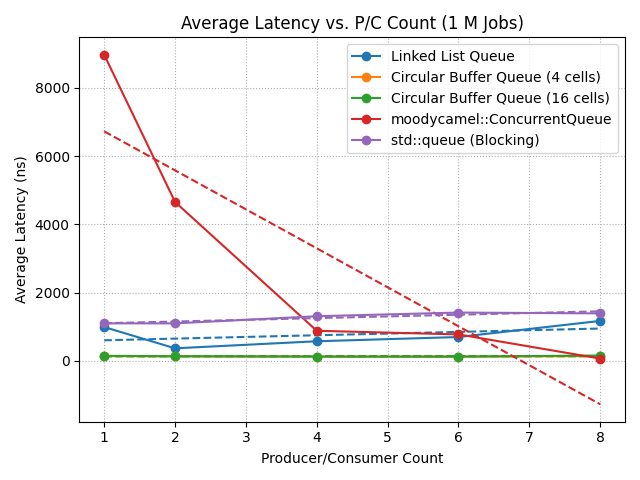
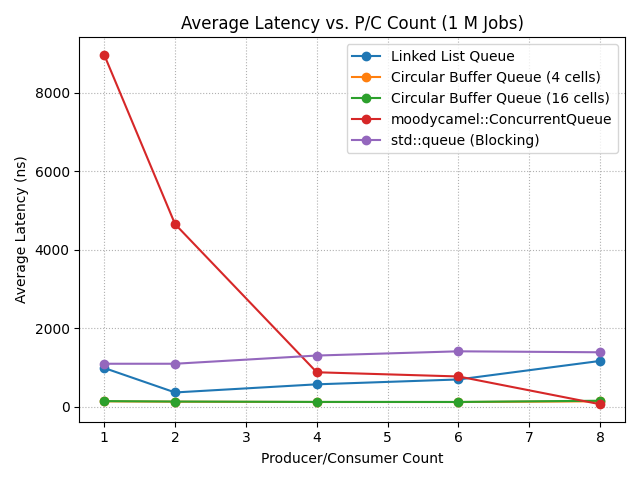
Removed trendlines

diff --git a/reporting/generate_throughput_plots.py b/reporting/generate_throughput_plots.py
@@ -45,10 +45,10 @@ for file_path in csv_files:
         line = plt.plot(subset["Producer/Consumer Count"], subset["Average Throughput per Thread (jobs/sec/thread)"], marker="o", linestyle="-", label=queue_type)
 
         # Calculate and plot linear trendline
-        if len(subset["Producer/Consumer Count"]) > 1:
-            coeffs = np.polyfit(subset["Producer/Consumer Count"], subset["Average Throughput per Thread (jobs/sec/thread)"], 1)
-            trendline = np.poly1d(coeffs)
-            plt.plot(subset["Producer/Consumer Count"], trendline(subset["Producer/Consumer Count"]), linestyle="--", color=line[0].get_color())
+        # if len(subset["Producer/Consumer Count"]) > 1:
+        #     coeffs = np.polyfit(subset["Producer/Consumer Count"], subset["Average Throughput per Thread (jobs/sec/thread)"], 1)
+        #     trendline = np.poly1d(coeffs)
+        #     plt.plot(subset["Producer/Consumer Count"], trendline(subset["Producer/Consumer Count"]), linestyle="--", color=line[0].get_color())
 
     # Configure and save the plot
     plt.title(f"Throughput per Thread vs. P/C Count ({job_count_str} Jobs)")
@@ -83,10 +83,10 @@ for file_path in csv_files:
         line = plt.plot(subset["Producer/Consumer Count"], subset["Average Throughput per Thread (jobs/sec/thread)"], marker="o", linestyle="-", label=queue_type)
 
         # Calculate and plot linear trendline
-        if len(subset["Producer/Consumer Count"]) > 1:
-            coeffs = np.polyfit(subset["Producer/Consumer Count"], subset["Average Throughput per Thread (jobs/sec/thread)"], 1)
-            trendline = np.poly1d(coeffs)
-            plt.plot(subset["Producer/Consumer Count"], trendline(subset["Producer/Consumer Count"]), linestyle="--", color=line[0].get_color())
+        # if len(subset["Producer/Consumer Count"]) > 1:
+        #     coeffs = np.polyfit(subset["Producer/Consumer Count"], subset["Average Throughput per Thread (jobs/sec/thread)"], 1)
+        #     trendline = np.poly1d(coeffs)
+        #     plt.plot(subset["Producer/Consumer Count"], trendline(subset["Producer/Consumer Count"]), linestyle="--", color=line[0].get_color())
 
     # Configure and save the plot
     plt.title(f"Throughput per Thread vs. P/C Count ({job_count_str} Jobs)")

diff --git a/reporting/generate_latency_plots.py b/reporting/generate_latency_plots.py
@@ -45,10 +45,10 @@ for file_path in csv_files:
         line = plt.plot(subset["Producer/Consumer Count"], subset["Average Latency (ns)"], marker="o", linestyle="-", label=queue_type)
 
         # Calculate and plot linear trendline
-        if len(subset["Producer/Consumer Count"]) > 1:
-            coeffs = np.polyfit(subset["Producer/Consumer Count"], subset["Average Latency (ns)"], 1)
-            trendline = np.poly1d(coeffs)
-            plt.plot(subset["Producer/Consumer Count"], trendline(subset["Producer/Consumer Count"]), linestyle="--", color=line[0].get_color())
+        # if len(subset["Producer/Consumer Count"]) > 1:
+        #     coeffs = np.polyfit(subset["Producer/Consumer Count"], subset["Average Latency (ns)"], 1)
+        #     trendline = np.poly1d(coeffs)
+        #     plt.plot(subset["Producer/Consumer Count"], trendline(subset["Producer/Consumer Count"]), linestyle="--", color=line[0].get_color())
 
     # Configure and save the plot
     plt.title(f"Average Latency vs. P/C Count ({job_count_str} Jobs)")
